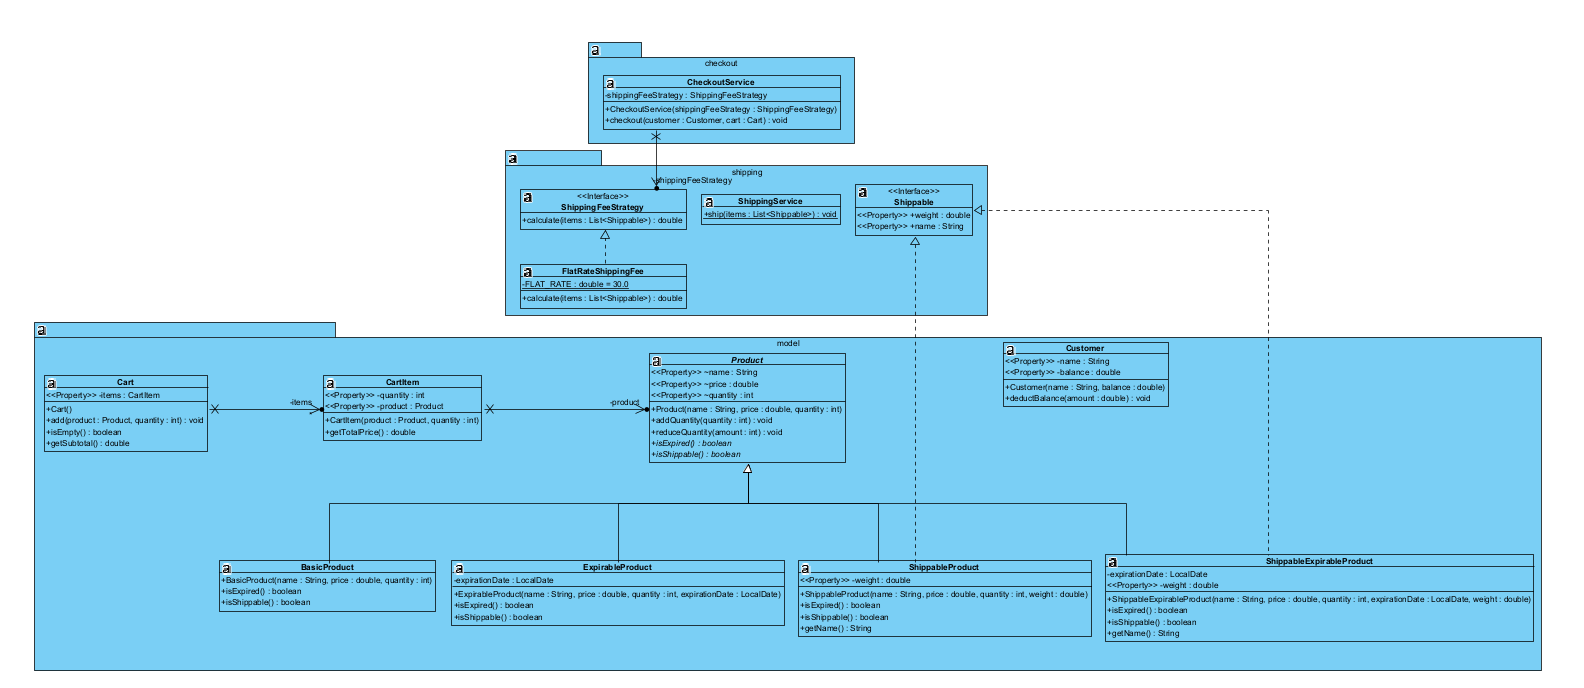
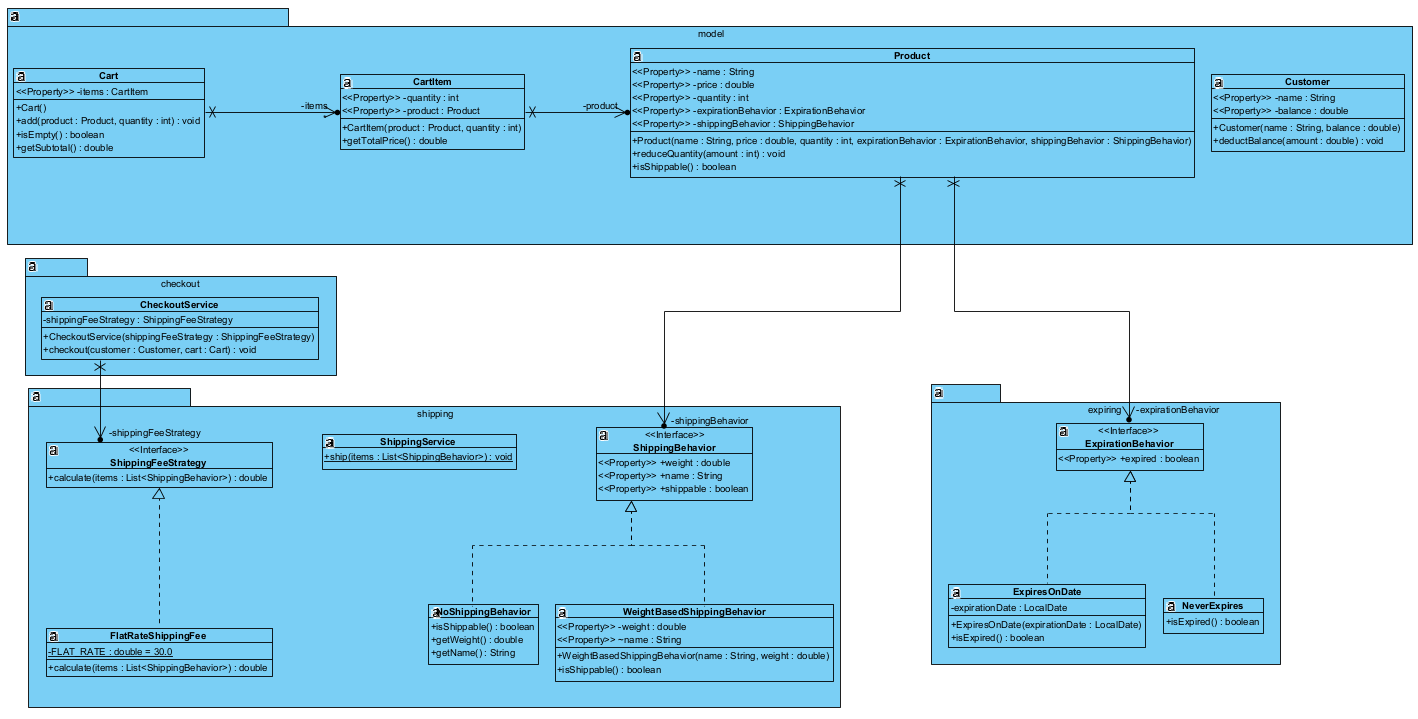
use composition-over-inheritance design — which is more flexible and aligned with modern OOP principles.

diff --git a/src/main/Main.java b/src/main/Main.java
@@ -1,8 +1,12 @@
 package src.main;
 
+import src.main.java.expiring.ExpiresOnDate;
+import src.main.java.expiring.NeverExpires;
 import src.main.java.model.*;
 import src.main.java.checkout.*;
 import src.main.java.shipping.FlatRateShippingFee;
+import src.main.java.shipping.NoShippingBehavior;
+import src.main.java.shipping.WeightBasedShippingBehavior;
 
 import java.time.LocalDate;
 
@@ -15,9 +19,15 @@ public class Main {
             Customer customer = new Customer("Ahmed", 1000);
             Cart cart = new Cart();
 
-            Product cheese = new ShippableExpirableProduct("Cheese", 100, 5, LocalDate.now().plusDays(2), 0.2);
-            Product biscuits = new ShippableExpirableProduct("Biscuits", 150, 3, LocalDate.now().plusDays(5), 0.7);
-            Product scratchCard = new BasicProduct("ScratchCard", 50, 10);
+            // create ShippableExpirableProduct
+            Product cheese = new Product("Cheese", 100, 5,
+                    new ExpiresOnDate( LocalDate.now().plusDays(2)),
+                    new WeightBasedShippingBehavior("Cheese",0.2));
+            Product biscuits = new Product("Biscuits", 150, 3,
+                    new ExpiresOnDate(LocalDate.now().plusDays(5)),
+                    new WeightBasedShippingBehavior("Biscuits",0.7));
+
+            Product scratchCard = new Product("ScratchCard", 50, 10,new NeverExpires(),new NoShippingBehavior());
 
             cart.add(cheese, 2);
             cart.add(biscuits, 1);
@@ -47,7 +57,9 @@ public class Main {
             Customer customer = new Customer("Ahmed", 500);
             Cart cart = new Cart();
 
-            Product expired = new ShippableExpirableProduct("Old Cheese", 120, 5, LocalDate.now().minusDays(1), 0.3);
+            Product expired = new Product("Old Cheese", 120, 5,
+                    new ExpiresOnDate( LocalDate.now().minusDays(1)),
+                    new WeightBasedShippingBehavior("Old Cheese",0.3));
             cart.add(expired, 1);
 
             CheckoutService service = new CheckoutService(new FlatRateShippingFee());
@@ -62,7 +74,9 @@ public class Main {
             Customer customer = new Customer("Mohamed", 100);
             Cart cart = new Cart();
 
-            Product tv = new ShippableProduct("TV", 500, 1, 10.0);
+            Product tv = new Product("TV", 500, 1,
+                    new NeverExpires(),
+                    new WeightBasedShippingBehavior("TV",10.0) );
             cart.add(tv, 1);
 
             CheckoutService service = new CheckoutService(new FlatRateShippingFee());
@@ -77,7 +91,9 @@ public class Main {
             Customer customer = new Customer("Ramy", 1000);
             Cart cart = new Cart();
 
-            Product scratchCard = new BasicProduct("ScratchCard", 50, 2);
+            Product scratchCard = new Product("ScratchCard", 50, 2,
+                    new NeverExpires(),
+                    new WeightBasedShippingBehavior("ScratchCard",10.0));
             cart.add(scratchCard, 3); // Invalid
 
             CheckoutService service = new CheckoutService(new FlatRateShippingFee());

diff --git a/test/java/checkout/CheckoutServiceTest.java b/test/java/checkout/CheckoutServiceTest.java
@@ -1,9 +1,13 @@
 package test.java.checkout;
 
 import src.main.java.checkout.CheckoutService;
+import src.main.java.expiring.ExpiresOnDate;
+import src.main.java.expiring.NeverExpires;
 import src.main.java.model.*;
 import org.junit.jupiter.api.Test;
 import src.main.java.shipping.FlatRateShippingFee;
+import src.main.java.shipping.NoShippingBehavior;
+import src.main.java.shipping.WeightBasedShippingBehavior;
 
 import java.time.LocalDate;
 
@@ -13,8 +17,12 @@ public class CheckoutServiceTest {
 
     @Test
     void shouldSuccessfullyCheckoutWithValidItems() {
-        Product cheese = new ShippableExpirableProduct("Cheese", 100, 5, LocalDate.now().plusDays(2), 0.2);
-        Product card = new BasicProduct("ScratchCard", 50, 10);
+        Product cheese = new Product("Cheese", 100, 5
+                ,new ExpiresOnDate(LocalDate.now().plusDays(2))
+                ,new WeightBasedShippingBehavior("Cheese",0.2));
+        Product card = new Product("ScratchCard", 50, 10
+                ,new NeverExpires()
+                ,new NoShippingBehavior());
         Customer customer = new Customer("John", 1000);
         Cart cart = new Cart();
 
@@ -29,7 +37,9 @@ public class CheckoutServiceTest {
 
     @Test
     void shouldThrowWhenProductIsExpired() {
-        Product expired = new ShippableExpirableProduct("Milk", 80, 3, LocalDate.now().minusDays(1), 0.5);
+        Product expired = new Product("Milk", 80, 3
+                , new ExpiresOnDate(LocalDate.now().minusDays(1))
+                ,new WeightBasedShippingBehavior("Milk",0.5));
         Customer customer = new Customer("Tom", 500);
         Cart cart = new Cart();
         cart.add(expired, 1);
@@ -42,7 +52,9 @@ public class CheckoutServiceTest {
 
     @Test
     void shouldThrowWhenCustomerBalanceIsInsufficient() {
-        Product tv = new ShippableProduct("TV", 700, 2, 10.0);
+        Product tv = new Product("TV", 700, 2
+                ,new NeverExpires()
+                ,new WeightBasedShippingBehavior( "TV",10.0));
         Customer customer = new Customer("LowBalance", 100);
         Cart cart = new Cart();
         cart.add(tv, 1);
@@ -66,7 +78,9 @@ public class CheckoutServiceTest {
 
     @Test
     void shouldThrowWhenQuantityExceedsAvailableStock() {
-        Product p = new BasicProduct("ScratchCard", 50, 2);
+        Product p = new Product("ScratchCard", 50, 2,
+                new NeverExpires(),
+                new NoShippingBehavior());
         Customer customer = new Customer("OverLimitUser", 1000);
         Cart cart = new Cart();
         cart.add(p, 2);

diff --git a/src/main/java/model/Product.java b/src/main/java/model/Product.java
@@ -1,30 +1,54 @@
 package src.main.java.model;
 
-public abstract class Product {
-    String name;
-    double price;
-    int quantity;
-    public Product(String name, double price, int quantity) {
-        this.name = name;
+import src.main.java.expiring.ExpirationBehavior;
+import src.main.java.shipping.ShippingBehavior;
+import src.main.java.shipping.WeightBasedShippingBehavior;
+
+public class Product {
+    private String name;
+    private double price;
+    private int quantity;
+
+    private ExpirationBehavior expirationBehavior;
+    private ShippingBehavior shippingBehavior;
+
+    public Product(String name, double price, int quantity,
+                   ExpirationBehavior expirationBehavior,
+                   ShippingBehavior shippingBehavior) {
+        this.name=name;
         this.price = price;
         this.quantity = quantity;
+        this.expirationBehavior = expirationBehavior;
+        this.shippingBehavior = shippingBehavior;
     }
 
-    public int getQuantity() {return quantity;}
-    public String getName() {return name;}
-    public double getPrice() {return price;}
+    public String getName() {
+        return name;
+    }
 
-    public void addQuantity(int quantity)
-    {
-        this.quantity+=quantity;
+    public double getPrice() {
+        return price;
+    }
+
+    public int getQuantity() {
+        return quantity;
     }
 
     public void reduceQuantity(int amount) {
-        if (amount > quantity) throw new IllegalArgumentException("Not enough stock.");
+        if (amount > quantity) {
+            throw new IllegalArgumentException("Not enough stock for: " + name);
+        }
         quantity -= amount;
     }
 
-    // to be overridden
-    public abstract boolean isExpired();
-    public abstract boolean isShippable();
+    public boolean isShippable() {
+        return shippingBehavior.isShippable();
+    }
+
+    public ShippingBehavior getShippingBehavior() {
+        return shippingBehavior;
+    }
+    public ExpirationBehavior getExpirationBehavior() {
+        return expirationBehavior;
+    }
 }

diff --git a/src/main/java/checkout/CheckoutService.java b/src/main/java/checkout/CheckoutService.java
@@ -1,7 +1,7 @@
 package src.main.java.checkout;
 
 import src.main.java.model.*;
-import src.main.java.shipping.Shippable;
+import src.main.java.shipping.ShippingBehavior;
 import src.main.java.shipping.ShippingFeeStrategy;
 import src.main.java.shipping.ShippingService;
 
@@ -21,12 +21,12 @@ public class CheckoutService {
         }
 
         double subtotal = 0;
-        List<Shippable> shippableItems = new ArrayList<>();
+        List<ShippingBehavior> shippableItems = new ArrayList<>();
 
         for (CartItem item : cart.getItems()) {
             Product product = item.getProduct();
 
-            if (product.isExpired()) {
+            if (product.getExpirationBehavior().isExpired()) {
                 throw new IllegalStateException("Product expired: " + product.getName());
             }
 
@@ -36,9 +36,9 @@ public class CheckoutService {
 
             subtotal += item.getTotalPrice();
 
-            if (product.isShippable() && product instanceof Shippable) {
+            if (product.isShippable()) {
                 for (int i = 0; i < item.getQuantity(); i++) {
-                    shippableItems.add((Shippable) product);
+                    shippableItems.add(product.getShippingBehavior());
                 }
             }
         }

diff --git a/test/java/model/CartItemTest.java b/test/java/model/CartItemTest.java
@@ -1,9 +1,10 @@
 package test.java.model;
 
 import org.junit.jupiter.api.Test;
-import src.main.java.model.BasicProduct;
+import src.main.java.expiring.NeverExpires;
 import src.main.java.model.CartItem;
 import src.main.java.model.Product;
+import src.main.java.shipping.NoShippingBehavior;
 
 import static org.junit.jupiter.api.Assertions.*;
 
@@ -11,14 +12,14 @@ public class CartItemTest {
 
     @Test
     void shouldCreateCartItemAndCalculateTotalPrice() {
-        Product product = new BasicProduct("ScratchCard", 50, 10);
+        Product product = new Product("ScratchCard", 50, 10, new NeverExpires(),new NoShippingBehavior());
         CartItem item = new CartItem(product, 2);
         assertEquals(100, item.getTotalPrice());
     }
 
     @Test
     void shouldThrowWhenQuantityExceedsStock() {
-        Product product = new BasicProduct("ScratchCard", 50, 2);
+        Product product = new Product("ScratchCard", 50, 2, new NeverExpires(),new NoShippingBehavior());
         assertThrows(IllegalArgumentException.class, () -> new CartItem(product, 5));
     }
 }

diff --git a/test/java/model/CartTest.java b/test/java/model/CartTest.java
@@ -1,9 +1,10 @@
 package test.java.model;
 
 import org.junit.jupiter.api.Test;
-import src.main.java.model.BasicProduct;
+import src.main.java.expiring.NeverExpires;
 import src.main.java.model.Cart;
 import src.main.java.model.Product;
+import src.main.java.shipping.NoShippingBehavior;
 
 import static org.junit.jupiter.api.Assertions.*;
 
@@ -12,8 +13,8 @@ public class CartTest {
     @Test
     void shouldAddItemsAndCalculateSubtotal() {
         Cart cart = new Cart();
-        Product p1 = new BasicProduct("ScratchCard", 50, 10);
-        Product p2 = new BasicProduct("Token", 30, 10);
+        Product p1 = new Product("ScratchCard", 50, 10, new NeverExpires(),new NoShippingBehavior());
+        Product p2 = new Product("Token", 30, 10, new NeverExpires(),new NoShippingBehavior());
 
         cart.add(p1, 2);
         cart.add(p2, 1);

diff --git a/src/main/java/shipping/ShippingService.java b/src/main/java/shipping/ShippingService.java
@@ -5,7 +5,7 @@ import java.util.List;
 import java.util.Map;
 
 public class ShippingService {
-    public static void ship(List<Shippable> items) {
+    public static void ship(List<ShippingBehavior> items) {
         if (items.isEmpty()) return;
 
         System.out.println("** Shipment notice **");
@@ -14,7 +14,7 @@ public class ShippingService {
         Map<String, Integer> counts = new LinkedHashMap<>();
         Map<String, Double> weights = new LinkedHashMap<>();
 
-        for (Shippable item : items) {
+        for (ShippingBehavior item : items) {
             String key = item.getName() + "|" + item.getWeight();
             counts.put(key, counts.getOrDefault(key, 0) + 1);
             weights.put(key, item.getWeight());  // store original weight once

diff --git a/test/java/shipping/FlatRateShippingFeeTest.java b/test/java/shipping/FlatRateShippingFeeTest.java
@@ -1,7 +1,6 @@
 package test.java.shipping;
 
 import org.junit.jupiter.api.Test;
-import src.main.java.model.ShippableProduct;
 import src.main.java.shipping.*;
 
 import java.util.List;
@@ -12,7 +11,7 @@ public class FlatRateShippingFeeTest {
 
     @Test
     void shouldReturn30WhenItemsExist() {
-        Shippable item = new ShippableProduct("TV", 700, 1, 5.0);
+        ShippingBehavior item = new WeightBasedShippingBehavior("TV",0.5);
         ShippingFeeStrategy strategy = new FlatRateShippingFee();
         double fee = strategy.calculate(List.of(item));
         assertEquals(30.0, fee);

diff --git a/src/main/java/shipping/WeightBasedShippingBehavior.java b/src/main/java/shipping/WeightBasedShippingBehavior.java
@@ -1,0 +1,26 @@
+package src.main.java.shipping;
+
+public class WeightBasedShippingBehavior implements ShippingBehavior {
+    private double weight;
+    String name;
+    public WeightBasedShippingBehavior(String name , double weight)
+    {
+        this.weight=weight;
+        this.name=name;
+    }
+    @Override
+    public boolean isShippable() {
+        return true;
+    }
+
+    public double getWeight()
+    {
+        return weight;
+    }
+
+    @Override
+    public String getName() {
+        return name;
+    }
+
+}

diff --git a/src/main/java/expiring/ExpiresOnDate.java b/src/main/java/expiring/ExpiresOnDate.java
@@ -1,0 +1,15 @@
+package src.main.java.expiring;
+
+import java.time.LocalDate;
+
+public class ExpiresOnDate implements ExpirationBehavior{
+    private LocalDate expirationDate;
+    public ExpiresOnDate(LocalDate expirationDate)
+    {
+        this.expirationDate=expirationDate;
+    }
+    @Override
+    public boolean isExpired() {
+        return LocalDate.now().isAfter(expirationDate);
+    }
+}

diff --git a/src/main/java/shipping/NoShippingBehavior.java b/src/main/java/shipping/NoShippingBehavior.java
@@ -1,0 +1,18 @@
+package src.main.java.shipping;
+
+public class NoShippingBehavior implements ShippingBehavior{
+    public boolean isShippable()
+    {
+        return false;
+    }
+
+    @Override
+    public double getWeight() {
+        return 0;
+    }
+    @Override
+    public String getName()
+    {
+        return "";
+    }
+}

diff --git a/src/main/java/shipping/FlatRateShippingFee.java b/src/main/java/shipping/FlatRateShippingFee.java
@@ -6,7 +6,7 @@ public class FlatRateShippingFee implements ShippingFeeStrategy {
     private static final double FLAT_RATE = 30.0;
 
     @Override
-    public double calculate(List<Shippable> items) {
+    public double calculate(List<ShippingBehavior> items) {
         return items.isEmpty() ? 0.0 : FLAT_RATE;
     }
 }
